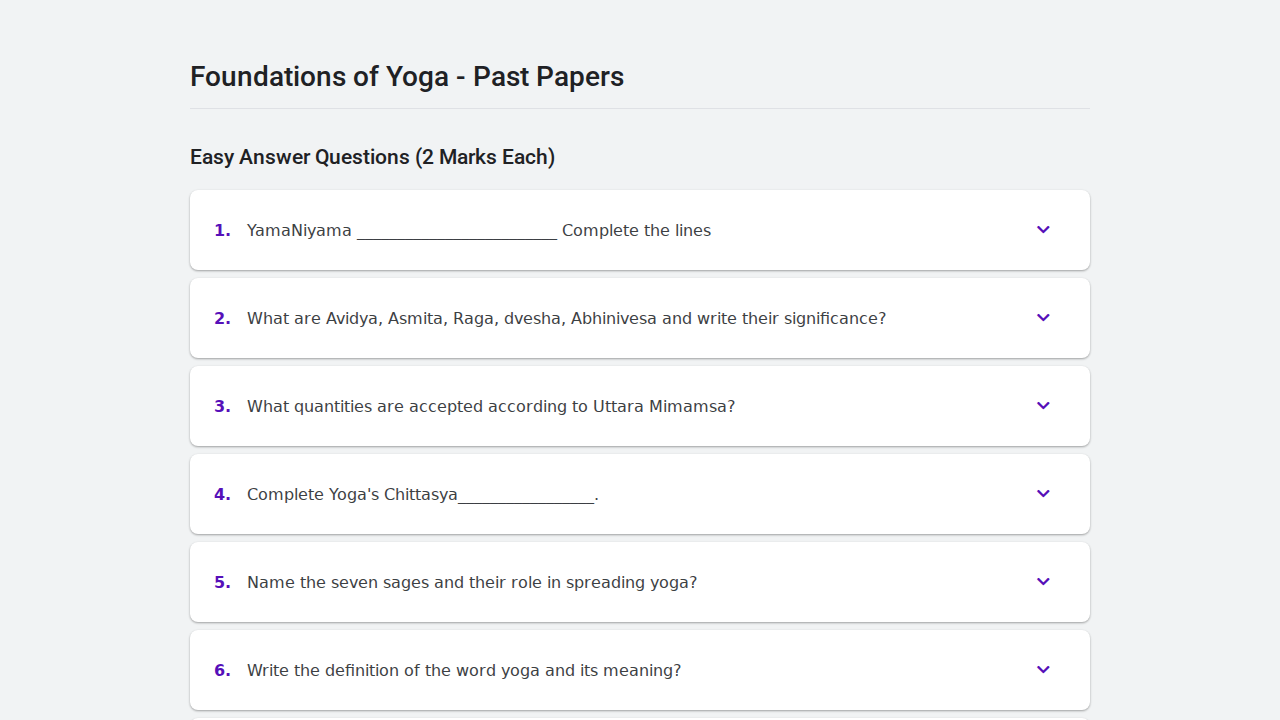
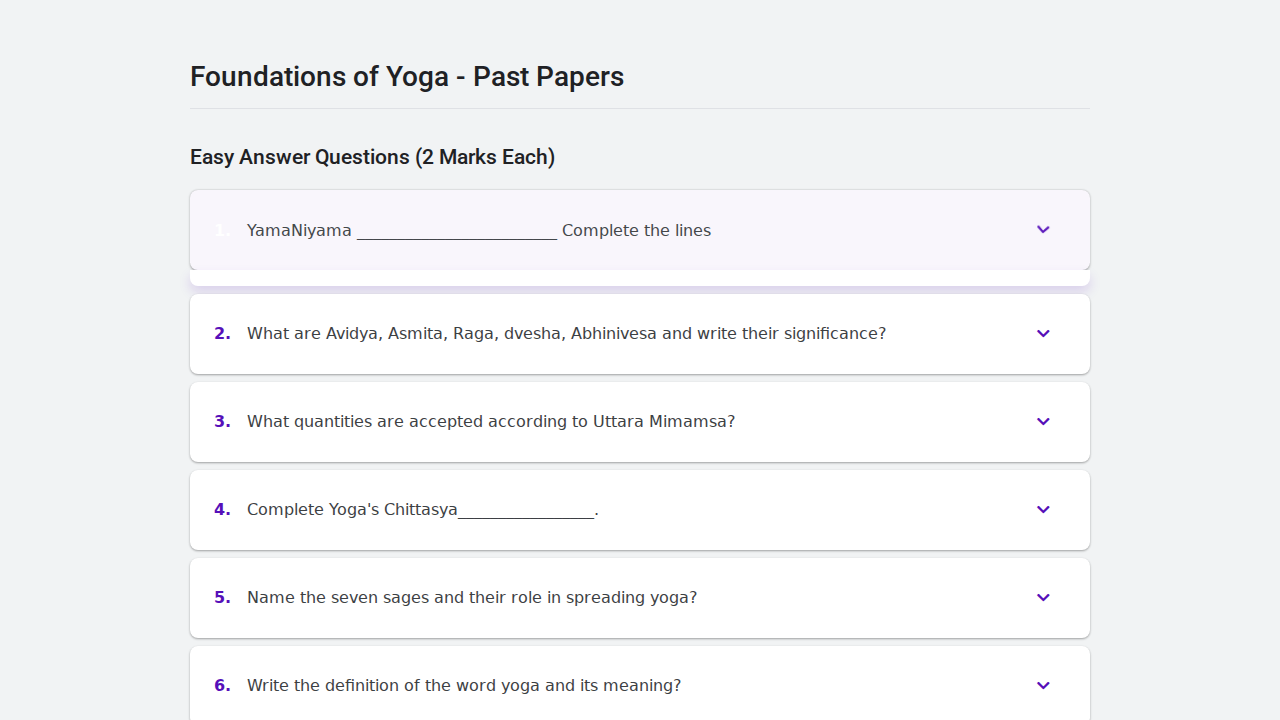
fix: Correct question number visibility and enhance active style
This commit addresses two issues with the accordion component:

1.  **Question Number Visibility**: Fixes a bug where the dynamic question number would become invisible when an accordion was clicked and became active. This was due to the text color and the active background color being the same. A new CSS rule has been added to set the question number's color to the panel background color (white) in the active state.

2.  **Active Accordion Styling**: Enhances the UI by making the active accordion and its corresponding panel more prominent. This is achieved by adding a more pronounced `box-shadow` to both elements, giving them a visually elevated effect as requested by the user.

diff --git a/styles.css b/styles.css
@@ -73,6 +73,7 @@ color: var(--panel-background-color);
 border-color: var(--primary-color);
 border-bottom-left-radius: 0;
 border-bottom-right-radius: 0;
+box-shadow: 0 6px 12px var(--shadow-color);
 }
 
 .accordion::after {
@@ -92,6 +93,10 @@ color: var(--primary-hover-color);
 .accordion.active::after {
 transform: rotate(180deg);
 color: var(--panel-background-color);
+}
+
+.accordion.active .question-number {
+  color: var(--panel-background-color);
 }
 
 .question-number {
@@ -115,7 +120,7 @@ border-bottom-left-radius: 8px;
 border-bottom-right-radius: 8px;
 margin-top: -0.5rem;
 margin-bottom: 0.5rem;
-box-shadow: 0 1px 3px rgba(0,0,0,0.12), 0 1px 2px rgba(0,0,0,0.24);
+box-shadow: 0 6px 12px var(--shadow-color);
 }
 
 .panel-content {

diff --git a/verify.js b/verify.js
@@ -6,6 +6,9 @@ const { chromium } = require('playwright');
   const page = await browser.newPage();
   try {
     await page.goto('http://localhost:8000');
+    // Wait for the first accordion to be visible, then click it
+    await page.waitForSelector('.accordion');
+    await page.click('.accordion');
     await page.screenshot({ path: 'verification.png' });
   } finally {
     await browser.close();
